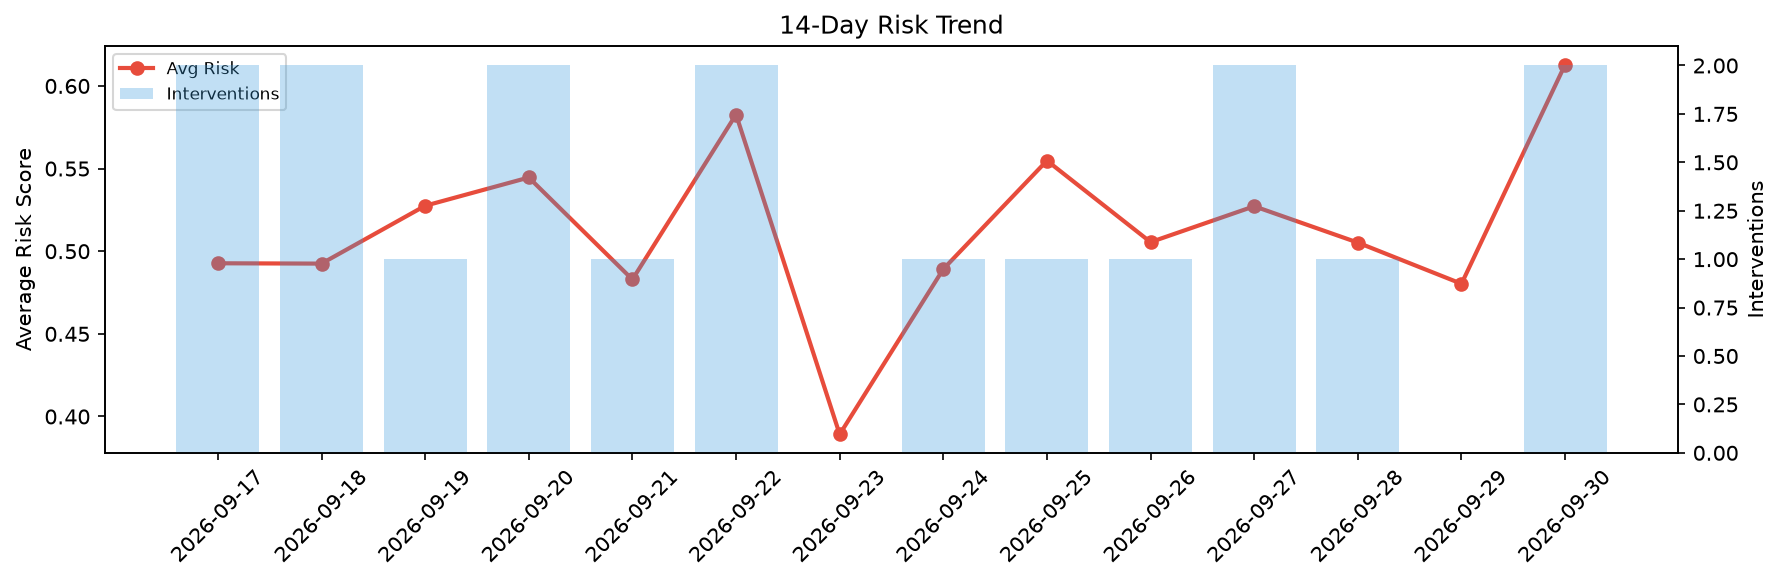
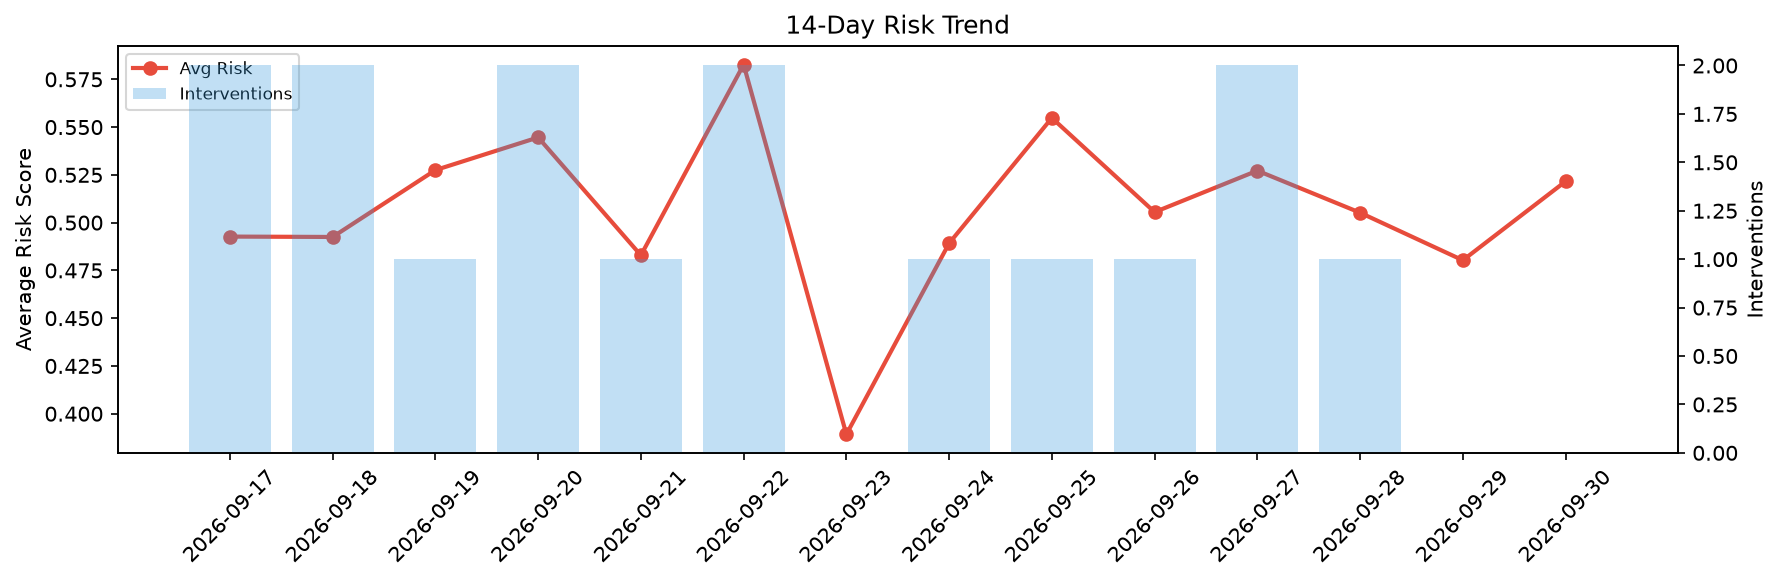
agent-improvement: daily cycle 2026-09-30T14:55

diff --git a/logs/2026-09-30.md b/logs/2026-09-30.md
@@ -1,6 +1,6 @@
 # Agent Improvement Report — 2026-09-30
 
-**Cycle ID:** `b91a84e1` | **Avg Risk:** 0.6129 | **Interventions:** 2/4
+**Cycle ID:** `12bd5ddf` | **Avg Risk:** 0.5216 | **Interventions:** 0/4
 
 ![Dashboard](2026-09-30_dashboard.png)
 
@@ -10,18 +10,18 @@
 
 | Domain | Risk Score | Decision | Alerts |
 |--------|-----------|----------|--------|
-| code_review | 0.5399 | monitor | none |
-| incident_response | 0.6614 | intervene | blast_radius |
-| data_pipeline | 0.8105 | intervene | schema_drift, volume_anomaly |
-| deployment | 0.4398 | monitor | rollback_rate |
+| code_review | 0.5892 | monitor | duplication, coverage |
+| incident_response | 0.5216 | monitor | none |
+| data_pipeline | 0.4556 | monitor | schema_drift |
+| deployment | 0.5201 | monitor | canary_error |
 
 ## Delta vs Yesterday
 
 | Domain | Today | Yesterday | Change |
 |--------|-------|-----------|--------|
-| code_review | 0.5399 | 0.357 | 📈 51.2% |
-| incident_response | 0.6614 | 0.4685 | 📈 41.2% |
-| data_pipeline | 0.8105 | 0.5207 | 📈 55.7% |
-| deployment | 0.4398 | 0.5748 | 📉 -23.5% |
+| code_review | 0.5892 | 0.357 | 📈 65.0% |
+| incident_response | 0.5216 | 0.4685 | 📈 11.3% |
+| data_pipeline | 0.4556 | 0.5207 | 📉 -12.5% |
+| deployment | 0.5201 | 0.5748 | 📉 -9.5% |
 
 **Refinement:** `{'adjustment': 'maintain', 'trend': 'improving', 'window': 4}`
